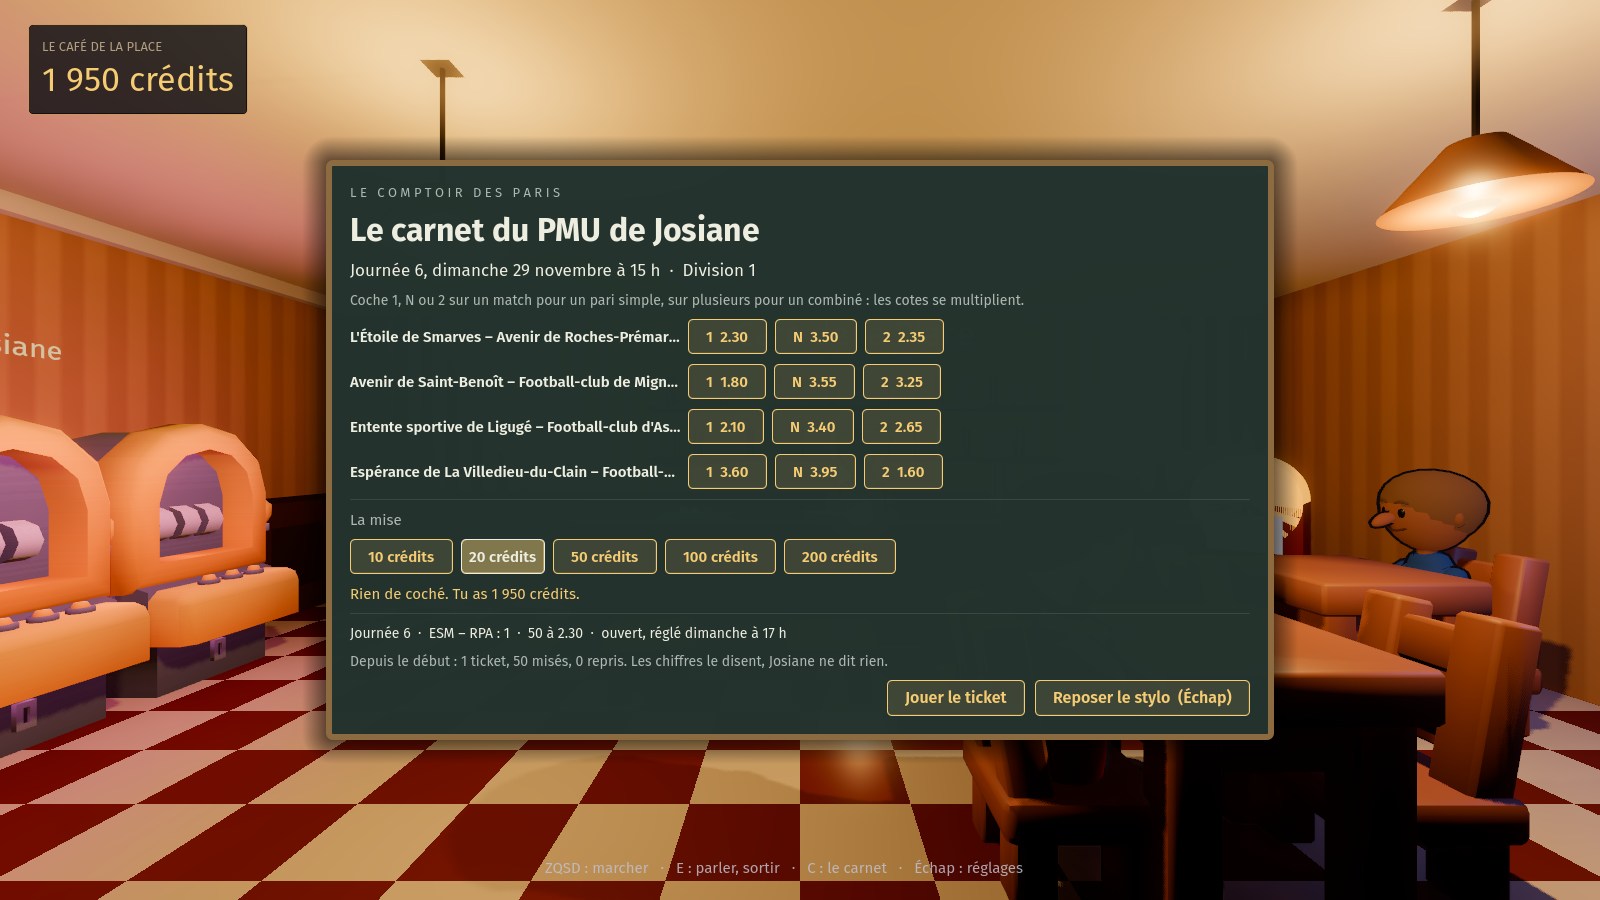
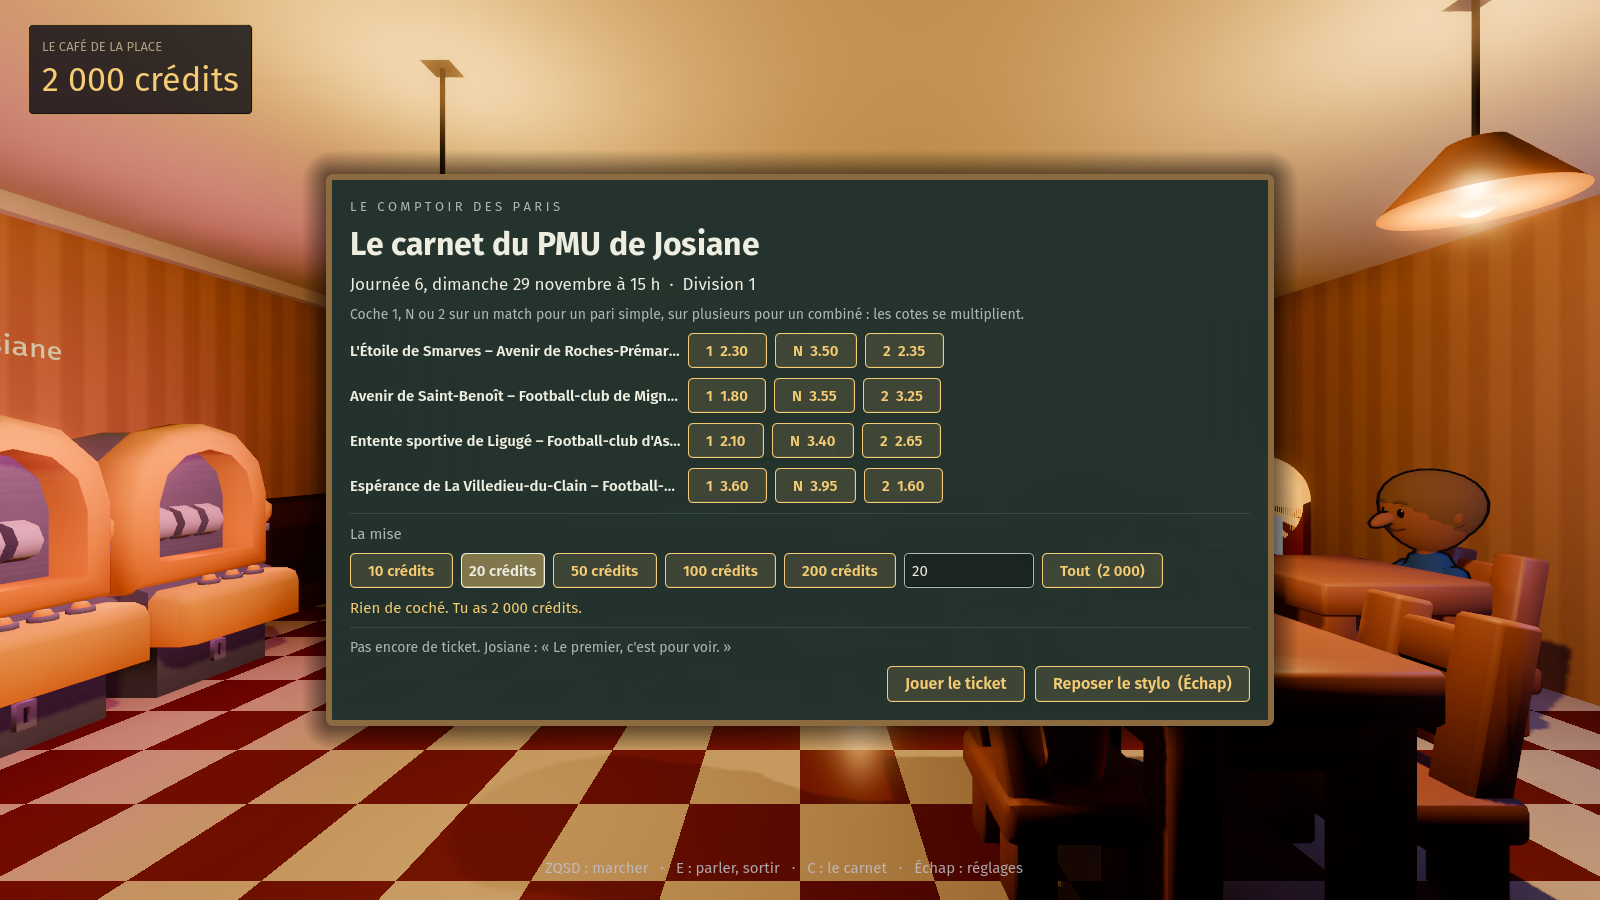
Paris : la mise est libre ; le crochet renforts du module mercato dans l'effectif (#114)
Au carnet du PMU, on tape le montant qu'on veut : les boutons 10 à 200 ne sont
plus que des raccourcis, « Tout » mise la bourse, un crédit au moins et pas
d'autre limite que ce qu'on a (Paris.MISE_MIN, FootParis.poser_mise).

Football.effectif(club, s, j) prend la journée : avec elle s'ajoutent les
joueurs achetés au marché que le club a ce dimanche-là, par le crochet
Football.renforts(s, j, club) que posera le module mercato du fil dédié ; les
matchs et la feuille de match passent la journée. Football.oublier_effectifs()
vide les caches et émet change.

Claude-Session: https://claude.ai/code/session_01V88v2JnnfUnwVwkueEVtBH

Changed region(s): [[0.1875, 0.1556, 0.8125, 0.84], [0.0312, 0.0622, 0.1562, 0.1244], [0.625, 0.5911, 0.75, 0.6533]]

diff --git a/docs/SUITE.md b/docs/SUITE.md
@@ -350,7 +350,7 @@ Un type de plus fait monter la version du socle ; un paquet qui s'en sert le dem
    ![Les parts de l'Étoile à l'étude de Maître Garnier](captures/notaire-etoile.png)
 
    ![La causerie quand un autre actionnaire tient plus de parts](captures/stade-causerie-actionnaires.png)
-11. **Les paris au comptoir** de Josiane (fait le 18 octobre 2026) : à 2 000 gagnés, Josiane pose **le carnet du PMU** sur le zinc du Café de la Place (`salle.gd`, `SEUIL_PARIS`, `_carnet_du_pmu`) ; E l'ouvre en grand (`FootParis`, `scripts/socle/foot_paris.gd`) : les quatre matchs de la journée à venir de la division suivie, **trois cotes par match** (1, N, 2), une mise (10 à 200 crédits) ; un match coché fait un pari simple, plusieurs font un combiné dont les cotes se multiplient. Les cotes sont **fixes et les mêmes chez tout le monde** (`Paris.probabilites`, `cotes_de` : les forces des deux clubs pour la saison, l'avantage du terrain, 12 % de marge pour la maison, au vingtième près) ; la mise part tout de suite (`Game.spend`, elle compte dans le total misé comme à la machine) et le ticket se règle **le dimanche à 17 h** (`Paris.regler`, en entrant au café, Josiane le dit) : le gain rentre dans les crédits et **dans le total gagné au jeu** (`Game.cash_in`), comme un jackpot. Le coup d'envoi donné, plus de ticket sur la journée. Les tickets restent sur l'appareil (autoload `Paris`, `scripts/socle/paris.gd`, `paris.json` dans les greffes, comme les consignes) ; une nouvelle partie les emporte. La fenêtre montre les derniers tickets et le bilan depuis le début, misé et repris : les chiffres le disent, Josiane ne dit rien. Test : `godot --headless --path . -s tools/test_foot_paris.gd` ; capture : `godot --path . res://scenes/cafe.tscn -- --capture=paris.png --won=2000 --journee=5 --ticket=50 --open=paris` (`--ticket=` pose d'abord un ticket sur le match de l'Étoile).
+11. **Les paris au comptoir** de Josiane (fait le 18 octobre 2026) : à 2 000 gagnés, Josiane pose **le carnet du PMU** sur le zinc du Café de la Place (`salle.gd`, `SEUIL_PARIS`, `_carnet_du_pmu`) ; E l'ouvre en grand (`FootParis`, `scripts/socle/foot_paris.gd`) : les quatre matchs de la journée à venir de la division suivie, **trois cotes par match** (1, N, 2), une **mise libre** (on tape le montant, les boutons 10 à 200 ne sont que des raccourcis, « Tout » mise la bourse ; un crédit au moins, pas d'autre limite que ce qu'on a, demandé par Guillaume le 18 octobre) ; un match coché fait un pari simple, plusieurs font un combiné dont les cotes se multiplient. Les cotes sont **fixes et les mêmes chez tout le monde** (`Paris.probabilites`, `cotes_de` : les forces des deux clubs pour la saison, l'avantage du terrain, 12 % de marge pour la maison, au vingtième près) ; la mise part tout de suite (`Game.spend`, elle compte dans le total misé comme à la machine) et le ticket se règle **le dimanche à 17 h** (`Paris.regler`, en entrant au café, Josiane le dit) : le gain rentre dans les crédits et **dans le total gagné au jeu** (`Game.cash_in`), comme un jackpot. Le coup d'envoi donné, plus de ticket sur la journée. Les tickets restent sur l'appareil (autoload `Paris`, `scripts/socle/paris.gd`, `paris.json` dans les greffes, comme les consignes) ; une nouvelle partie les emporte. La fenêtre montre les derniers tickets et le bilan depuis le début, misé et repris : les chiffres le disent, Josiane ne dit rien. Test : `godot --headless --path . -s tools/test_foot_paris.gd` ; capture : `godot --path . res://scenes/cafe.tscn -- --capture=paris.png --won=2000 --journee=5 --ticket=50 --open=paris` (`--ticket=` pose d'abord un ticket sur le match de l'Étoile).
 
    ![Le carnet du PMU sur le zinc, à côté du 421](captures/salle-cafe-pmu.png)
 
